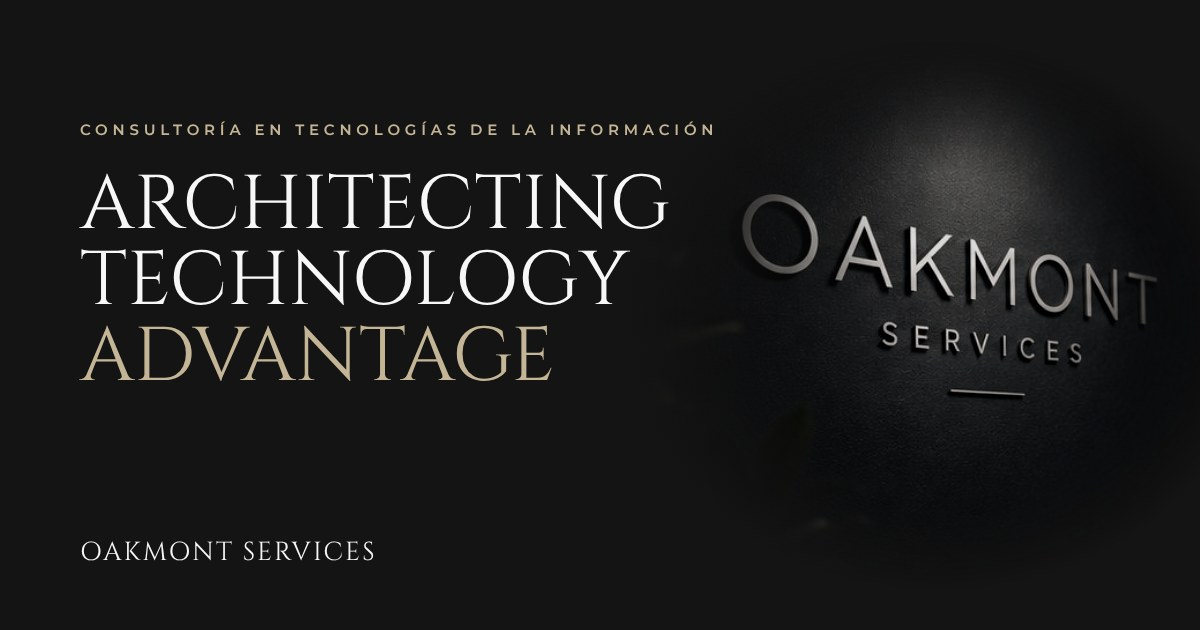
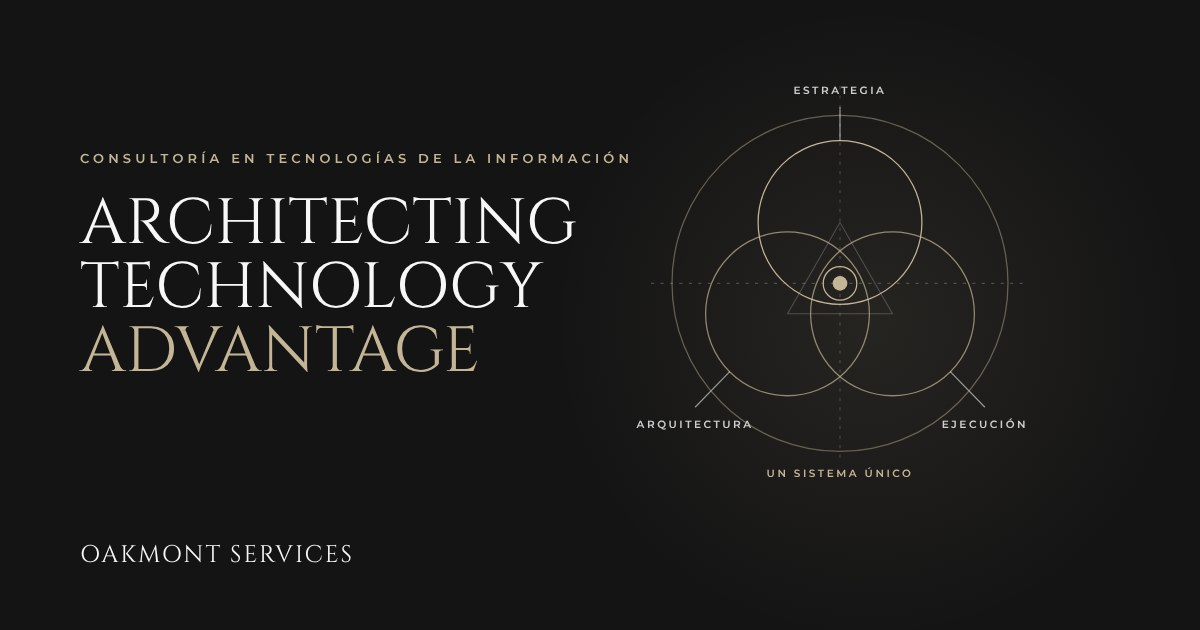
Encabezado de inicio: diagrama del sistema único en lugar de la foto del letrero
- Nuevo diagrama 'sistema': estrategia, arquitectura y ejecución se superponen
  sobre guías de plano y un anillo las orquesta; en el centro, la ventaja
- Se retira la foto del letrero (baja resolución, ajena al lenguaje del sitio)
- Titular dimensionado para caber completo de 320 px a 1920 px
- og.jpg regenerada con el nuevo diagrama

Claude-Session: https://claude.ai/code/session_01UHU5kJsoW8ckdPj1kZezeZ

diff --git a/index.html b/index.html
@@ -84,20 +84,21 @@
 <main id="contenido">
 
 <section class="hero" id="top" aria-label="Introducción">
-  <div class="hero__media" aria-hidden="true"><img src="images/signage.jpg" alt="" width="554" height="474" fetchpriority="high"></div>
-  <div class="hero__veil" aria-hidden="true"></div>
-  <div class="hero__content container">
-    <p class="kicker rv">Consultoría en tecnologías de la información</p>
-    <h1 class="hero__title lines" aria-label="Architecting Technology Advantage">
-      <span><span>Architecting</span></span>
-      <span><span>Technology</span></span>
-      <span><span class="gold">Advantage</span></span>
-    </h1>
-    <p class="hero__lede rv" style="--d:.5s">Acompañamos a la dirección ejecutiva en la definición, evolución e ingeniería de soluciones tecnológicas — de la estrategia a la producción, bajo un modelo de gobierno único.</p>
-    <div class="hero__actions rv" style="--d:.6s">
-      <a href="diagnostico/" class="btn btn--gold btn--lg">Agendar diagnóstico</a>
-      <a href="servicios/" class="link-arrow">Explorar servicios <svg class="icon" viewBox="0 0 24 24" fill="none" stroke="currentColor" stroke-width="1.5" stroke-linecap="round" stroke-linejoin="round" aria-hidden="true" focusable="false"><path d="M5 12h14" /> <path d="m12 5 7 7-7 7" /></svg></a>
+  <div class="hero__grid container">
+    <div class="hero__content">
+      <p class="kicker rv">Consultoría en tecnologías de la información</p>
+      <h1 class="hero__title lines" aria-label="Architecting Technology Advantage">
+        <span><span>Architecting</span></span>
+        <span><span>Technology</span></span>
+        <span><span class="gold">Advantage</span></span>
+      </h1>
+      <p class="hero__lede rv" style="--d:.5s">Acompañamos a la dirección ejecutiva en la definición, evolución e ingeniería de soluciones tecnológicas — de la estrategia a la producción, bajo un modelo de gobierno único.</p>
+      <div class="hero__actions rv" style="--d:.6s">
+        <a href="diagnostico/" class="btn btn--gold btn--lg">Agendar diagnóstico</a>
+        <a href="servicios/" class="link-arrow">Explorar servicios <svg class="icon" viewBox="0 0 24 24" fill="none" stroke="currentColor" stroke-width="1.5" stroke-linecap="round" stroke-linejoin="round" aria-hidden="true" focusable="false"><path d="M5 12h14" /> <path d="m12 5 7 7-7 7" /></svg></a>
+      </div>
     </div>
+    <figure class="allegory rv"><svg class="allegory__svg" viewBox="0 0 400 400" role="img" aria-label="Estrategia, arquitectura y ejecución se superponen y quedan orquestadas en un sistema único; en su centro, la ventaja"><path class="fade w dash" d="M20 208 H380" style="--t:0.1s"/><path class="fade w dash" d="M200 20 V380" style="--t:0.1s"/><path class="draw w" d="M200 150 L150 237 L250 237 Z" pathLength="1" style="--t:0.2s;--dur:0.8s"/><circle class="draw g" cx="200" cy="150" r="78" pathLength="1" style="--t:0.4s;--dur:1.2s"/><path class="draw w-solid" d="M200 72 L200 40" pathLength="1" style="--t:1.2000000000000002s;--dur:0.4s"/><text class="fade" x="200" y="28" style="--t:1.3s">ESTRATEGIA</text><circle class="draw g2" cx="150" cy="237" r="78" pathLength="1" style="--t:0.9s;--dur:1.2s"/><path class="draw w-solid" d="M95 292 L62 326" pathLength="1" style="--t:1.7000000000000002s;--dur:0.4s"/><text class="fade" x="62" y="346" style="--t:1.8s">ARQUITECTURA</text><circle class="draw g2" cx="250" cy="237" r="78" pathLength="1" style="--t:1.4s;--dur:1.2s"/><path class="draw w-solid" d="M305 292 L338 326" pathLength="1" style="--t:2.2s;--dur:0.4s"/><text class="fade" x="338" y="346" style="--t:2.3s">EJECUCIÓN</text><circle class="draw g3" cx="200" cy="208" r="160" pathLength="1" style="--t:2.0s;--dur:1.4s"/><circle class="fade fill" cx="200" cy="208" r="7" style="--t:2.9s"/><circle class="draw g" cx="200" cy="208" r="16" pathLength="1" style="--t:3.0s;--dur:0.6s"/><text class="fade gold" x="200" y="392" style="--t:3.1s">UN SISTEMA ÚNICO</text></svg></figure>
   </div>
 </section>
 

diff --git a/css/styles.css b/css/styles.css
@@ -251,16 +251,10 @@ a { color: inherit; }
 
 /* ---------- 8. Home sections ---------- */
 .hero { position: relative; overflow: hidden; display: flex; align-items: center; min-height: 100vh; min-height: 100svh; padding: calc(var(--nav-h) + 48px) 0 96px; background: var(--ink); }
-.hero__media {
-  position: absolute; right: -4%; top: 50%; transform: translateY(-50%);
-  width: min(50vw, 760px); aspect-ratio: 554 / 474;
-  -webkit-mask-image: radial-gradient(closest-side, #000 52%, transparent 100%);
-  mask-image: radial-gradient(closest-side, #000 52%, transparent 100%);
-}
-.hero__media img { width: 100%; height: 100%; object-fit: cover; filter: saturate(.45) contrast(1.1) brightness(.85); }
-.hero__veil { position: absolute; inset: 0; pointer-events: none; background: linear-gradient(90deg, var(--ink) 0%, rgba(20, 20, 20, .9) 42%, rgba(20, 20, 20, .15) 68%, transparent 100%); }
-.hero__content { position: relative; z-index: 2; }
-.hero__title { margin-top: 26px; font-family: var(--font-display); font-weight: 400; text-transform: uppercase; letter-spacing: .02em; line-height: 1; font-size: clamp(40px, 6.4vw, 100px); }
+.hero::before { content: ""; position: absolute; top: -20%; right: -10%; width: 70vw; height: 140%; pointer-events: none; background: radial-gradient(closest-side, rgba(196, 181, 150, .1), transparent 70%); }
+.hero__grid { position: relative; display: grid; grid-template-columns: minmax(0, 1.2fr) minmax(0, .8fr); gap: clamp(40px, 5vw, 80px); align-items: center; }
+.hero__grid .allegory__svg { max-width: 540px; margin-left: auto; }
+.hero__title { margin-top: 26px; font-family: var(--font-display); font-weight: 400; text-transform: uppercase; letter-spacing: .02em; line-height: 1; font-size: clamp(36px, 4.9vw, 72px); }
 .hero__lede { max-width: 34em; margin-top: 32px; font-size: clamp(16px, 1.35vw, 19px); font-weight: 300; line-height: 1.7; color: rgba(247, 247, 247, .74); }
 .hero__actions { display: flex; align-items: center; gap: 28px; margin-top: 40px; flex-wrap: wrap; }
 
@@ -649,8 +643,8 @@ a { color: inherit; }
   :root { --nav-h: 64px; }
   .nav__links, .nav__cta { display: none; }
   .nav__toggle { display: block; }
-  .hero__media { right: -30%; width: 115vw; opacity: .5; }
-  .hero__veil { background: linear-gradient(180deg, rgba(20, 20, 20, .7), rgba(20, 20, 20, .5) 40%, var(--ink)); }
+  .hero__grid { grid-template-columns: 1fr; }
+  .hero__grid .allegory__svg { max-width: 300px; margin: 8px auto 0; }
   .forces, .stake__grid, .problems, .scards--3, .icards, .outcomes, .cases--2, .weeks { grid-template-columns: 1fr; }
   .forces, .stake__grid { gap: 32px; }
   .split, .split--even, .framework__grid { grid-template-columns: 1fr; }

diff --git a/build/build.py b/build/build.py
@@ -350,20 +350,21 @@ def build_home():
 
     body = f'''
 <section class="hero" id="top" aria-label="Introducción">
-  <div class="hero__media" aria-hidden="true"><img src="images/signage.jpg" alt="" width="554" height="474" fetchpriority="high"></div>
-  <div class="hero__veil" aria-hidden="true"></div>
-  <div class="hero__content container">
-    <p class="kicker rv">Consultoría en tecnologías de la información</p>
-    <h1 class="hero__title lines" aria-label="Architecting Technology Advantage">
-      <span><span>Architecting</span></span>
-      <span><span>Technology</span></span>
-      <span><span class="gold">Advantage</span></span>
-    </h1>
-    <p class="hero__lede rv" style="--d:.5s">Acompañamos a la dirección ejecutiva en la definición, evolución e ingeniería de soluciones tecnológicas — de la estrategia a la producción, bajo un modelo de gobierno único.</p>
-    <div class="hero__actions rv" style="--d:.6s">
-      <a href="diagnostico/" class="btn btn--gold btn--lg">Agendar diagnóstico</a>
-      <a href="servicios/" class="link-arrow">Explorar servicios {icon("arrow-right")}</a>
+  <div class="hero__grid container">
+    <div class="hero__content">
+      <p class="kicker rv">Consultoría en tecnologías de la información</p>
+      <h1 class="hero__title lines" aria-label="Architecting Technology Advantage">
+        <span><span>Architecting</span></span>
+        <span><span>Technology</span></span>
+        <span><span class="gold">Advantage</span></span>
+      </h1>
+      <p class="hero__lede rv" style="--d:.5s">Acompañamos a la dirección ejecutiva en la definición, evolución e ingeniería de soluciones tecnológicas — de la estrategia a la producción, bajo un modelo de gobierno único.</p>
+      <div class="hero__actions rv" style="--d:.6s">
+        <a href="diagnostico/" class="btn btn--gold btn--lg">Agendar diagnóstico</a>
+        <a href="servicios/" class="link-arrow">Explorar servicios {icon("arrow-right")}</a>
+      </div>
     </div>
+    {allegory("sistema")}
   </div>
 </section>
 

diff --git a/build/diagrams.py b/build/diagrams.py
@@ -216,7 +216,24 @@ def _health():
     return ("Información de pólizas, siniestros, clientes y proveedores converge en una fuente única, gobernada y protegida", body)
 
 
+def _system():
+    """Home hero: strategy, architecture and execution orchestrated as one system."""
+    body = guide("M20 208 H380", .1, "w dash") + guide("M200 20 V380", .1, "w dash")
+    body += path("M200 150 L150 237 L250 237 Z", "w", .2, .8)
+    parts = [((200, 150), "g", .4, (200, 72), (200, 40), (200, 28), "ESTRATEGIA"),
+             ((150, 237), "g2", .9, (95, 292), (62, 326), (62, 346), "ARQUITECTURA"),
+             ((250, 237), "g2", 1.4, (305, 292), (338, 326), (338, 346), "EJECUCIÓN")]
+    for (cx, cy), cls, t, (ax, ay), (bx, by), (lx, ly), text in parts:
+        body += circle(cx, cy, 78, cls, t, 1.2)
+        body += path(f"M{ax} {ay} L{bx} {by}", "w-solid", t + .8, .4) + label(lx, ly, text, t + .9)
+    body += circle(200, 208, 160, "g3", 2.0, 1.4)
+    body += dot(200, 208, 7, 2.9) + circle(200, 208, 16, "g", 3.0, .6)
+    body += label(200, 392, "UN SISTEMA ÚNICO", 3.1, "gold")
+    return ("Estrategia, arquitectura y ejecución se superponen y quedan orquestadas en un sistema único; en su centro, la ventaja", body)
+
+
 DIAGRAMS = {
+    "sistema": _system,
     "horizontes": _horizons,
     "fabrica-de-software": _fabrica,
     "strategy-advisory": _strategy,
